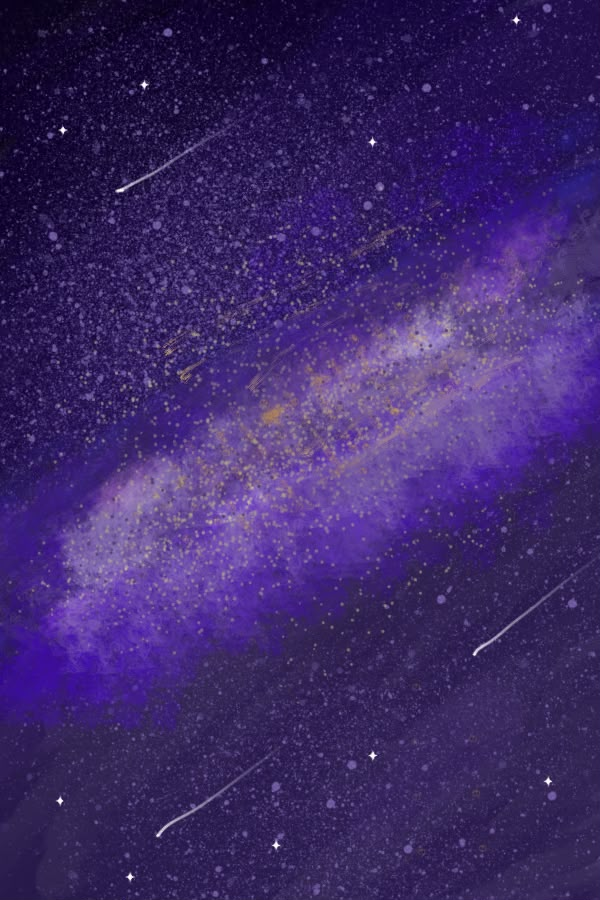
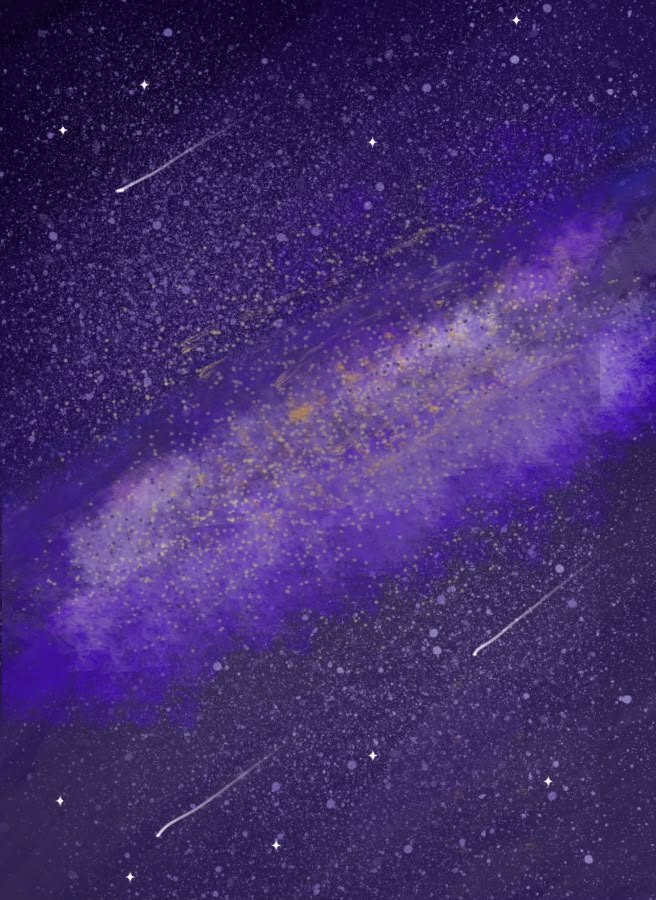
background

diff --git a/Pinball_RealGamers/Source/ModuleGame.cpp b/Pinball_RealGamers/Source/ModuleGame.cpp
@@ -14,7 +14,7 @@
 #define BALL_PATH         "Assets/S1.png"           // image of the gold ball
 #define EXTRA_BALL_PATH   "Assets/S2.png"           // image of the extra balls
 #define SPAWN_PATH        "Assets/black.png"   // image of the place where extra balls appear
-#define SPAWN_IMAGE_SIZE  300                  // size on screen (pixels)
+#define SPAWN_IMAGE_SIZE  140                  // size on screen (pixels)
 #define DRAW_WALLS      1      // 0 = do not draw the walls (if the background image already has them)
 #define WALL_THICKNESS  6.0f
 #define WALL_COLOR      Color{ 40, 60, 110, 255 }
